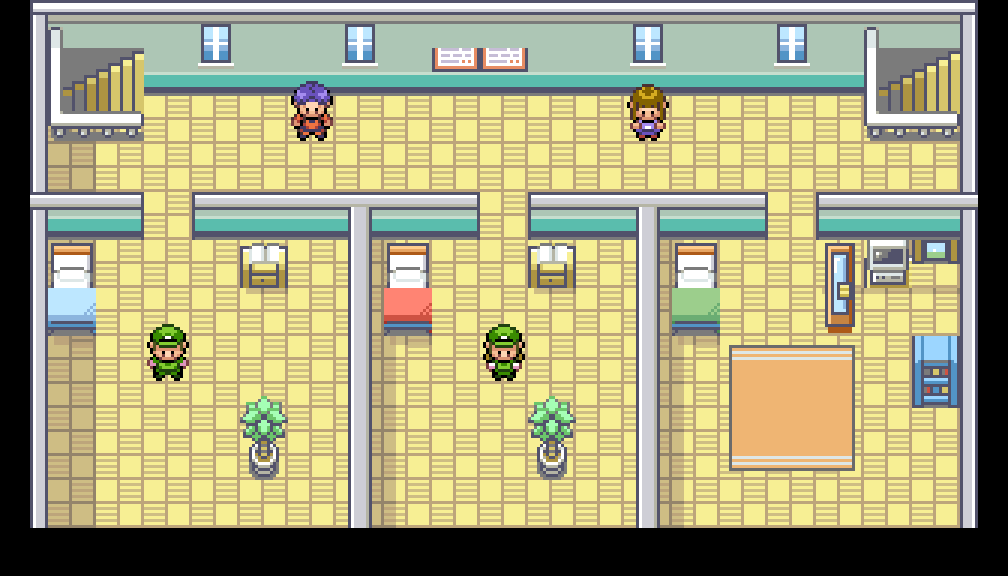
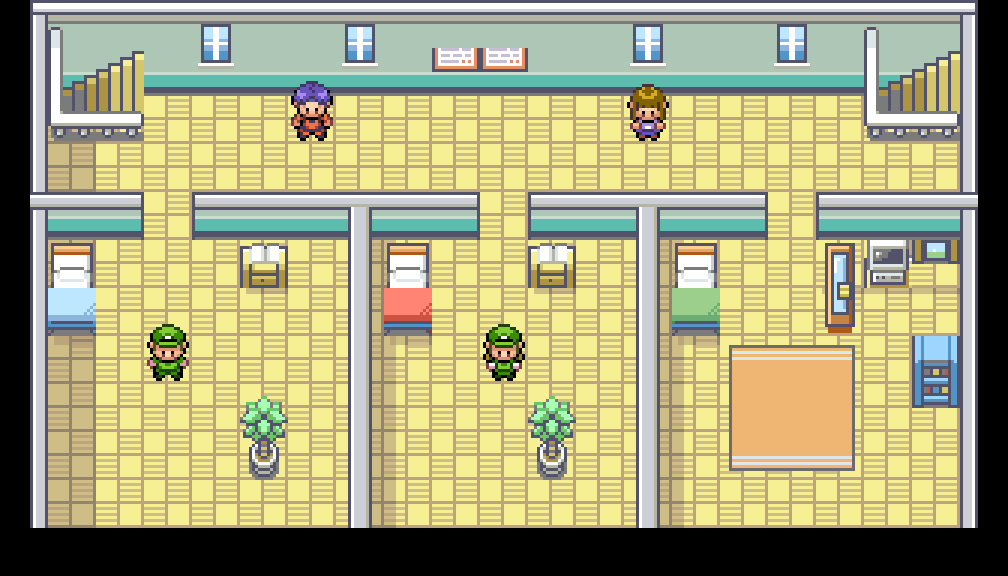
University interiors: stairs built into each room's wall
FireRed's house staircase carries the houses' grey stairwell in its bottom layer,
so in our rooms it showed as a grey block over the room's rail, wainscot and trim.
stairwell() now draws the steps against the room's own wall: the grey reached from
the steps' top edge (the backdrop) is replaced by the room's plaster, rail and
skirting, the shaded faces inside the steps stay, the white rail is in front, the
landing is on the room's floor and nothing rises above the wall's top band. All 16
staircases (Main Hall 1F/2F, dorm lobby/2F/3F, Science floors, hospital 1F/2F).

audit() flags foreign wall colors in stair cells ('wall'): it flags every old
staircase and none now. Collision, elevation and events unchanged (checked cell by
cell); both ROMs build. Sheet: docs/hack/university_remake/audit/19_stairs_all.png.

Changed region(s): [[0.8611, 0.0625, 0.9534, 0.1562], [0.0615, 0.0625, 0.1538, 0.1562]]

diff --git a/tools/hack/draw_university_interiors.py b/tools/hack/draw_university_interiors.py
@@ -284,6 +284,7 @@ class Room:
         self.O = Image.new('RGBA', (self.w * T, self.h * T), (0, 0, 0, 0))
         self.decor = set()          # Walkable cells with something in the middle layer (rugs, mats, stairs)
         self.walls = set()          # Solid cells drawn in the bottom layer (partitions, wall pieces)
+        self.stairs = []            # The stairs' left columns
         self.wall_rows = 3 if name.startswith('MAIN_HALL') else 2
 
     def fr(self, x, y, source, mid, mode='both'):
@@ -757,24 +758,50 @@ def door_mat(room, style='lab'):
         room.fr(x - 1 + i, room.h - 1, SCHOOL, mid, 'both')
 
 
-def stairs_up(room, x):
-    """The Copycat's stairs (rail 0x0EA, steps 0x0DA-0x0DB, landing 0x0E2-0x0E3), the landing on the first floor
-    row (the warp cells)."""
+STAIRWELL_GREY = hx('7B7B7B')      # The houses' stairwell behind the steps (0x0DA's backdrop)
+
+
+def stairwell(room, x, rail, steps, floors):
+    """FireRed's house staircase built into this room's wall: the steps (two rows: the wall's last row and the
+    first floor row, the warp cells) climb against the room's own plaster, rail and skirting, which show wherever
+    the house's grey stairwell was behind them (the grey reached from the steps' top edge; the grey faces inside
+    the steps stay); the white rail (its post on the wall's row above) in front; the landing on the room's floor."""
     y = room.wall_rows
-    room.fr(x, y - 2, HOME, 0x0EA, 'top')
-    room.fr_block(x, y - 1, HOME, [[0x0DA, 0x0DB], [0x0E2, 0x0E3]])
+    wall = room.F.crop((x * T, (y - 1) * T, (x + 2) * T, (y + 1) * T)).load()
+    room.fr(x, y - 2, HOME, rail, 'top')
+    room.fr_block(x, y - 1, HOME, steps)
+    block = Image.new('RGBA', (2 * T, 2 * T))
+    for r, row in enumerate(steps):
+        for c, mid in enumerate(row):
+            block.paste(Source(HOME).cell(mid)[0], (c * T, r * T))
+    bp = block.load()
+    grey = key(STAIRWELL_GREY)
+    seen, todo = set(), [(xx, 0) for xx in range(2 * T) if key(bp[xx, 0]) == grey]
+    while todo:
+        q = todo.pop()
+        if q in seen:
+            continue
+        seen.add(q)
+        qx, qy = q
+        for nx, ny in ((qx + 1, qy), (qx - 1, qy), (qx, qy + 1), (qx, qy - 1)):
+            if 0 <= nx < 2 * T and 0 <= ny < 2 * T and (nx, ny) not in seen and key(bp[nx, ny]) == grey:
+                todo.append((nx, ny))
+    px = room.F.load()
+    for (qx, qy) in seen:
+        px[x * T + qx, (y - 1) * T + qy] = wall[qx, qy]
     for k in (0, 1):
-        refloor(room, x + k, y, HOME, (PLANKS, PLANKS_SHADE))
+        refloor(room, x + k, y, HOME, floors)
+    room.stairs.append(x)
+
+
+def stairs_up(room, x):
+    """The Copycat's stairs (rail 0x0EA, steps 0x0DA-0x0DB over 0x0E2-0x0E3), built into the wall."""
+    stairwell(room, x, 0x0EA, [[0x0DA, 0x0DB], [0x0E2, 0x0E3]], (PLANKS, PLANKS_SHADE))
 
 
 def stairs_down(room, x):
-    """The Pallet house's stairs down (rail 0x015, steps 0x005-0x006 over 0x00D-0x00E), the last row the warp
-    cells."""
-    y = room.wall_rows
-    room.fr(x, y - 2, HOME, 0x015, 'top')
-    room.fr_block(x, y - 1, HOME, [[0x005, 0x006], [0x00D, 0x00E]])
-    for k in (0, 1):
-        refloor(room, x + k, y, HOME, (PARQUET, PARQUET_SHADE))
+    """The Pallet house's stairs (rail 0x015, steps 0x005-0x006 over 0x00D-0x00E), built into the wall."""
+    stairwell(room, x, 0x015, [[0x005, 0x006], [0x00D, 0x00E]], (PARQUET, PARQUET_SHADE))
 
 
 # --- FireRed furniture ------------------------------------------------------------------------------------------------
@@ -1286,6 +1313,7 @@ def shell(room, floor, wall):
         shade_cell(room, 1, 2)          # to the wall unshaded, as in the Cinnabar Lab)
     edges(room)
     wall_top(room)
+    room.wall_plain = room.F.copy()
     return ramp(floor)
 
 
@@ -1808,6 +1836,32 @@ def audit(room):
                     if all(0 <= y + d < H and col_a[y] == col_b[y + d] for y in mism):
                         out.append(('jump', bx // T, cy, 'rows %s shift %d' % (mism, d)))
                         break
+    # Stairs: in their wall cells (the rail's row, the steps' row), no colors of another wall (the houses' grey
+    # stairwell, their plaster and skirting) where the room's own wall is
+    foreign = {key(STAIRWELL_GREY)} | {key(c) for m in (0x0A8, 0x0B0, 0x020, 0x028)
+                                        for c in Source(HOME).flat(m).getdata()}
+    wp = room.wall_plain.load()
+    for sx in room.stairs:
+        # Foreign pixels reached from the top of the steps' row (or under the wall's top band) through foreign pixels:
+        # a backdrop (the shaded faces inside the steps and the rail's own shading aren't reached)
+        H = room.wall_rows * T
+        bad = {(x, y) for y in range(H) for x in range(sx * T, sx * T + 2 * T)
+               if key(px[x, y]) in foreign and key(px[x, y]) != key(wp[x, y]) and not O[x, y][3]}
+        seen, todo = set(), [q for q in bad if q[1] in (WALL_TOP, (room.wall_rows - 1) * T)]   # The rows they'd start
+        while todo:
+            q = todo.pop()
+            if q in seen:
+                continue
+            seen.add(q)
+            for n in ((q[0] + 1, q[1]), (q[0] - 1, q[1]), (q[0], q[1] + 1), (q[0], q[1] - 1)):
+                if n in bad and n not in seen:
+                    todo.append(n)
+        big = [q for q in seen]
+        for cy in range(room.wall_rows):
+            for cx in (sx, sx + 1):
+                n = sum(1 for (x, y) in big if x // T == cx and y // T == cy)
+                if n:
+                    out.append(('wall', cx, cy, n))
     for by in range((room.wall_rows + 1) * T, (room.h - 1) * T, T):
         for cx in range(1, room.w - 1):
             a = [key(F[cx * T + x, by - 1]) for x in range(T)]

diff --git a/docs/hack/university_remake/interior_art.md b/docs/hack/university_remake/interior_art.md
@@ -152,9 +152,9 @@ secondary palettes (near-identical whites and greys merged); it stops if a tiles
 
 | Tileset | Rooms | Tiles | Metatiles | Secondary palettes |
 |---|---|---|---|---|
-| `gTileset_UniversityClassroom` | Main Hall 1F/2F, Lecture Halls A/B, Faculty Office, Literature, Library | 203 / 384 | 195 / 384 | 5 / 6 |
-| `gTileset_UniversityDorm` | Dorm lobby, 2F, 3F, Cafeteria | 171 / 384 | 128 / 384 | 5 / 6 |
-| `gTileset_UniversityLab` | Science Institute 1F-4F, Hospital 1F/2F, Study Hall, Home Economics | 138 / 384 | 130 / 384 | 5 / 6 |
+| `gTileset_UniversityClassroom` | Main Hall 1F/2F, Lecture Halls A/B, Faculty Office, Literature, Library | 207 / 384 | 195 / 384 | 5 / 6 |
+| `gTileset_UniversityDorm` | Dorm lobby, 2F, 3F, Cafeteria | 175 / 384 | 128 / 384 | 5 / 6 |
+| `gTileset_UniversityLab` | Science Institute 1F-4F, Hospital 1F/2F, Study Hall, Home Economics | 146 / 384 | 132 / 384 | 5 / 6 |
 
 Palettes are what fills up (copying from several FireRed tilesets brings several 15-color palettes): each set has
 one slot left, so new pieces should reuse a set's colors where they can (`fit()` moves a piece into colors already
@@ -182,6 +182,8 @@ door mat is FireRed's 3-cell mat (only its middle cell warps, as before); the Li
 - **jump**: a cell edge where the picture's lines run on 1-2 rows higher or lower (a rail, skirting or outline a
   pixel off);
 - **step**: a row edge in the floor where the floor doesn't continue (a shadow band or a wall foot that stops);
+- **wall**: in a staircase's wall cells, another wall showing where the room's own wall is (the houses' grey
+  stairwell, their plaster or skirting), reached from the top of the steps' row;
 - every widened FireRed piece (`hslice`) whose joins don't continue the piece as drawn.
 
 Each room was also checked by eye at scale 5-6 (walls and corners, windows on the trims, stairs, mats and the void
@@ -194,6 +196,7 @@ row, rugs, desks, shelves, counters, sofas, beds, partitions). Fixed (`audit/<n>
 | All stone rooms | The arched windows cut through the wall's rail and wainscot | Windows shortened (rows of the lower pane taken out, the arch, cross and sill kept) so the sill rests on the rail (`campus_window`, `RAIL`) | `02_windows_rail` |
 | Hospital, Study Hall | The square windows ran over the Pokemon Center wall's band, and 1 px into the Lab's rail | Same, for each wall | `03_square_windows` |
 | Every room with stairs | The stairs' landings showed the floor FireRed drew them on (the Copycat's planks, the Pallet parquet) | Those pixels become the room's floor (`refloor`) | `04_stairs_floor`, `05_stairs_down` |
+| Every room with stairs (16 staircases) | The house stairs brought the houses' grey stairwell behind the steps: a foreign block over the room's rail, wainscot and trim | Built into the room's wall (`stairwell`): wherever the grey stairwell showed above the steps (reached from their top edge), the room's own plaster, rail and skirting show; the steps climb against it, the white rail in front, nothing above the wall's top band; the shaded faces inside the steps stay | `19_stairs_all` (every staircase) |
 | Lecture halls, Literature, Library, Faculty Office, Study Hall, lobby, Science floors, Cafeteria, Hospital | Pieces against the back wall (bookcases, shelves, PCs, consoles, the TM machine, the kitchen, the healing machine) covered the wall's top band | They stand with their feet 2 px onto the floor row, as FireRed's do, or hang just under the band if taller (`against_wall`); one-cell bookcases are narrowed where a shelf edge runs (`narrow`) | `06_wall_pieces`, `07_consoles`, `18_shelves` |
 | Lecture Hall A | The board's eraser and chalk repeated at every slice of the widened board and tray | Once, at its end | `08_chalkboard` |
 | Main Hall 1F/2F | The banners hung into the floor row; a light line across the plaster's middle row (a stretched crop) | Shorter banners; the middle row plain plaster | `09_main_hall_wall` |
